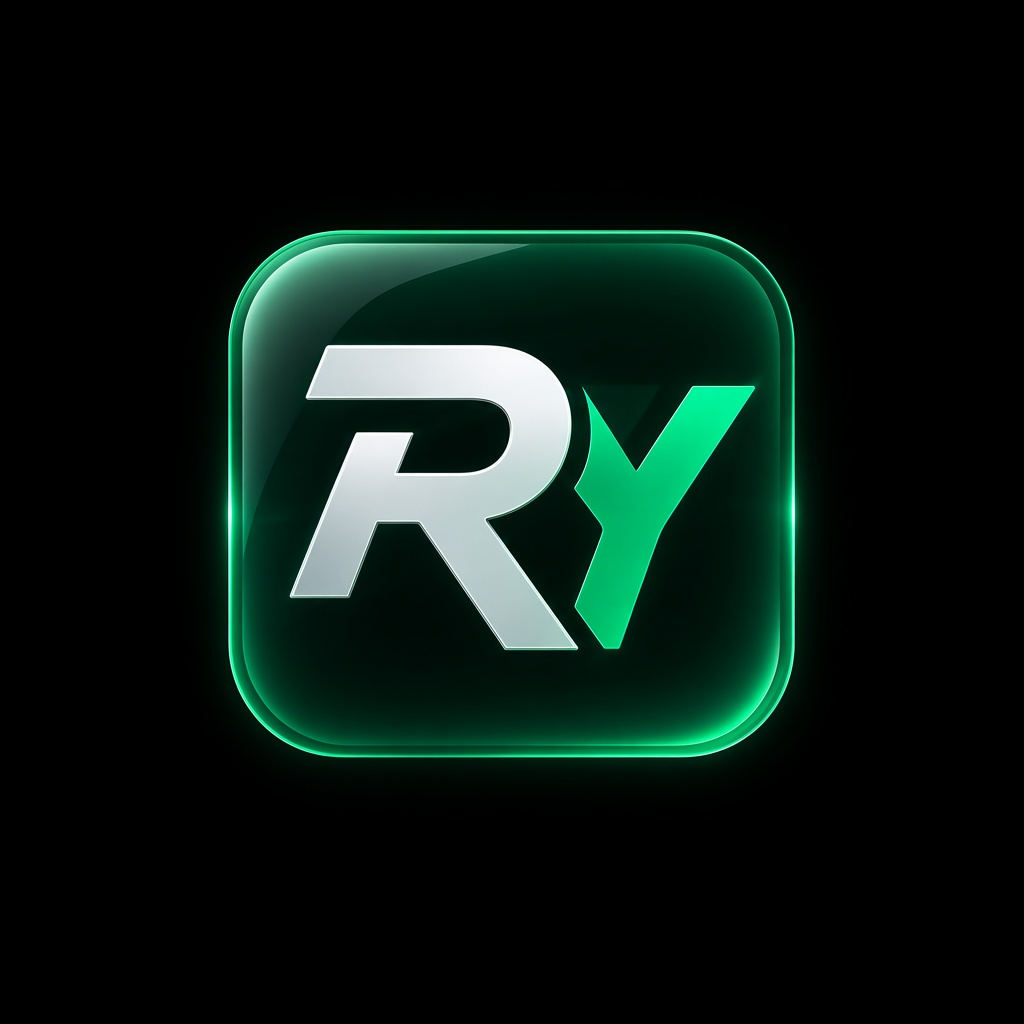
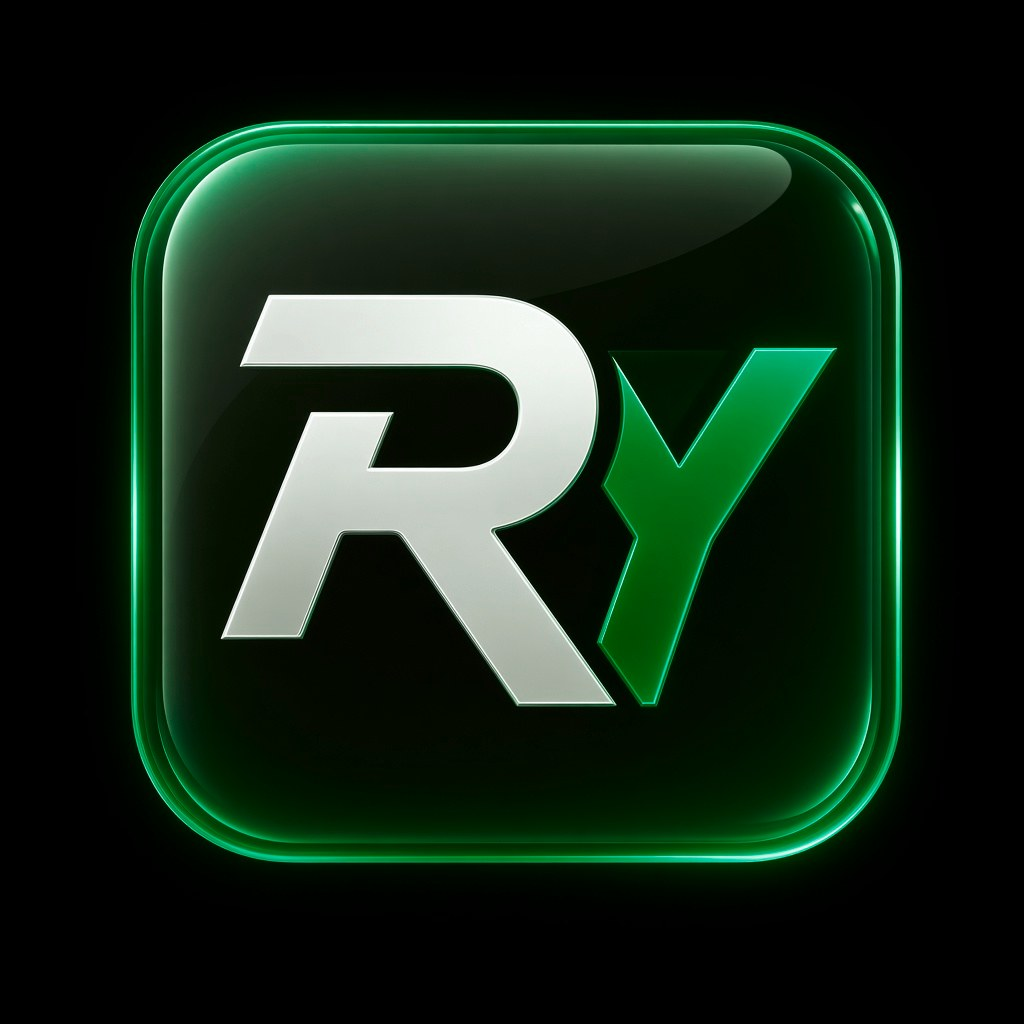
version 10.20.01

diff --git a/client/src/pages/admin/GitCardsAdmin.jsx b/client/src/pages/admin/GitCardsAdmin.jsx
@@ -493,12 +493,16 @@ function summaryValues(summary) {
 
 function HeaderLabel({ children, values, align = 'left' }) {
   return (
-    <div className={`flex min-w-0 items-baseline justify-between gap-2 ${align === 'center' ? 'text-center' : align === 'right' ? 'text-right' : ''}`}>
+    <div
+      className={`flex min-w-0 items-baseline gap-1 ${
+        align === 'center' ? 'justify-center text-center' : align === 'right' ? 'justify-end text-right' : 'justify-start'
+      }`}
+    >
       <span className="min-w-0 truncate">{children}</span>
       {values?.length ? (
-        <span className="flex shrink-0 items-baseline gap-1.5 normal-case tracking-normal">
+        <span className="flex shrink-0 items-baseline gap-1 normal-case tracking-normal">
           {values.map((item) => (
-            <span key={item.key} className={`text-lg font-bold tabular-nums ${item.className}`}>
+            <span key={item.key} className={`text-[11px] font-semibold tabular-nums leading-none ${item.className}`}>
               {item.value}
             </span>
           ))}

diff --git a/client/src/theme/sidebarBrand.js b/client/src/theme/sidebarBrand.js
@@ -4,11 +4,11 @@
  */
 
 const RY = {
-  corporate: '/branding/sidebar-mark-corporate.png?v=2',
-  minimal: '/branding/sidebar-mark-minimal.png?v=2',
-  emerald: '/branding/sidebar-mark-emerald.png?v=2',
-  gold: '/branding/sidebar-mark-gold.png?v=2',
-  sunset: '/branding/sidebar-mark-sunset.png?v=2',
+  corporate: '/branding/sidebar-mark-corporate.png?v=3',
+  minimal: '/branding/sidebar-mark-minimal.png?v=3',
+  emerald: '/branding/sidebar-mark-emerald.png?v=3',
+  gold: '/branding/sidebar-mark-gold.png?v=3',
+  sunset: '/branding/sidebar-mark-sunset.png?v=3',
 };
 
 export const SIDEBAR_BRAND_MARKS = {
